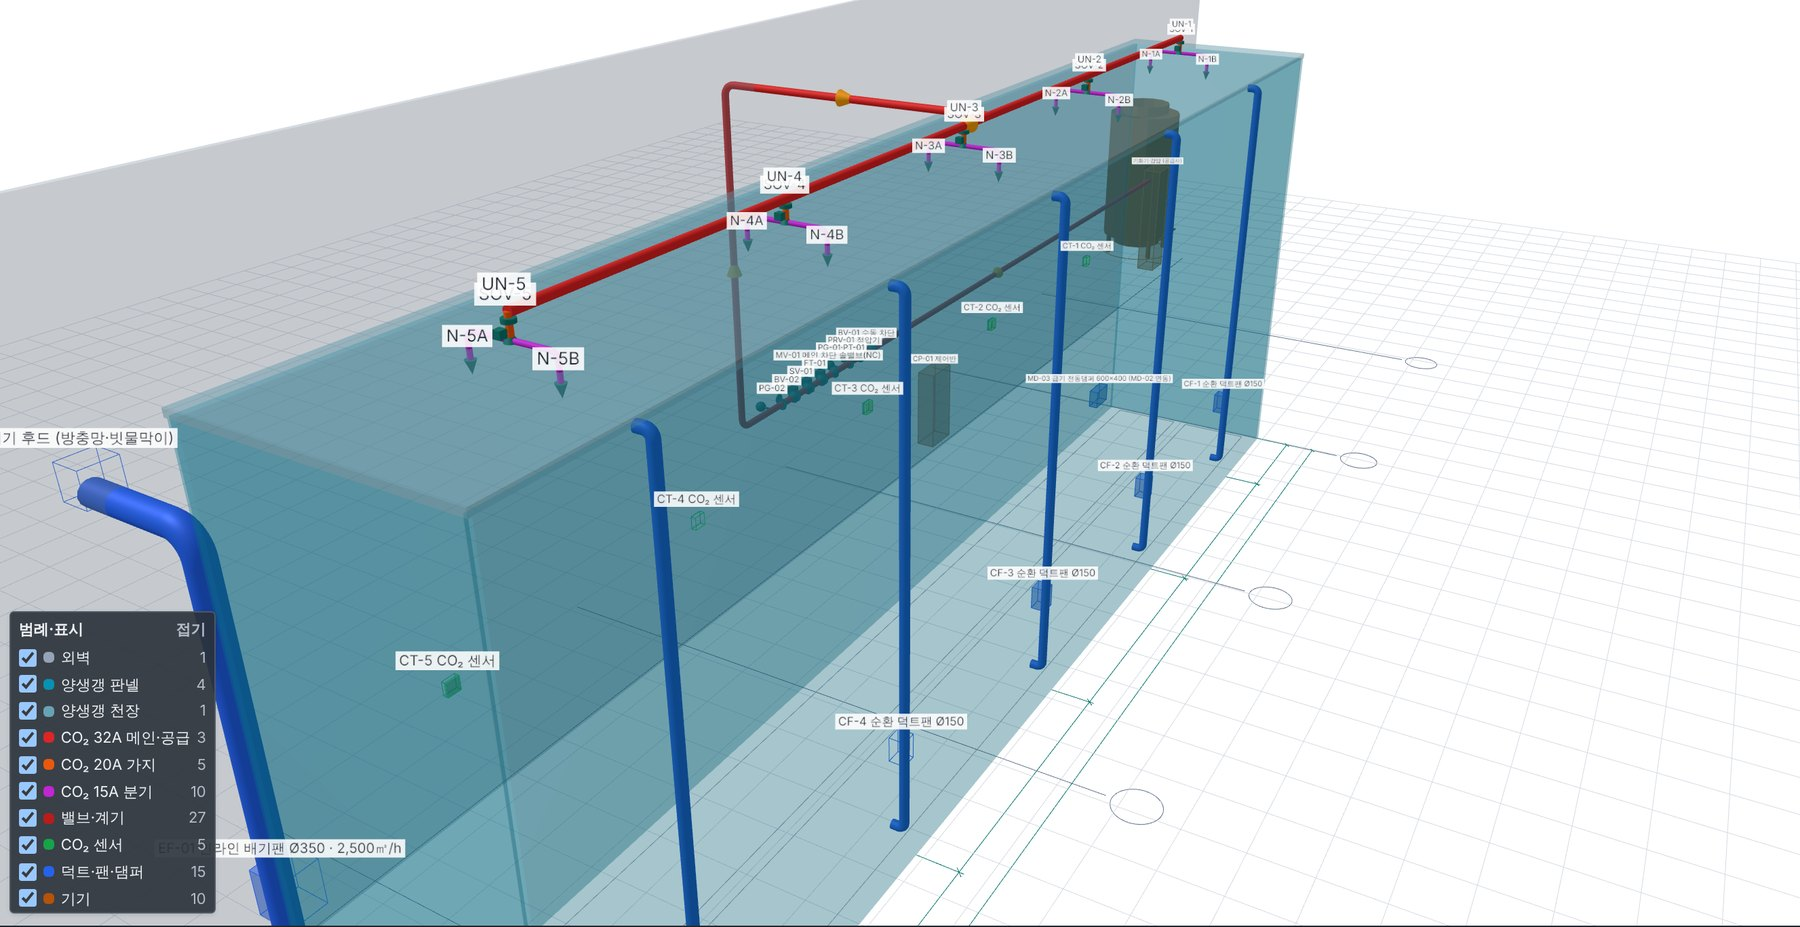
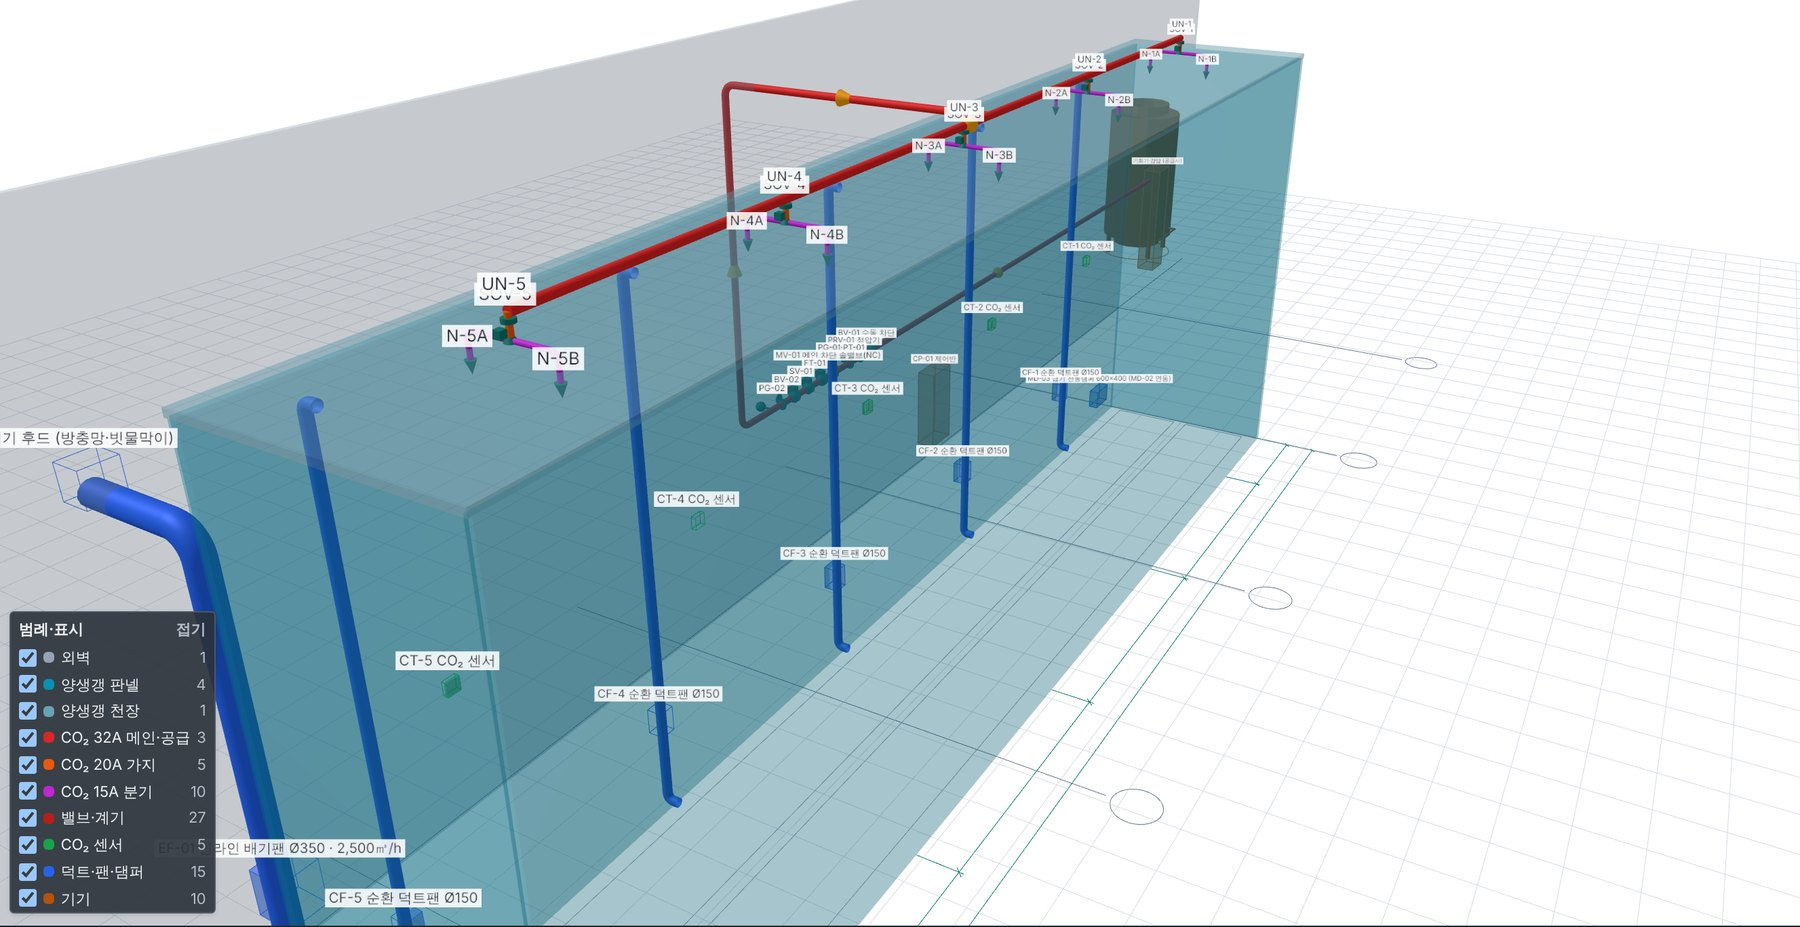
데코페이브 도면 그림·3D 화면: 순환 덕트팬을 오른쪽 벽으로 옮김 (#218)
Claude-Session: https://claude.ai/code/session_01MdRgMhkkCG9jx7tPyuMZFB

diff --git a/public/client-assets/decopave/3d.html b/public/client-assets/decopave/3d.html
@@ -83,7 +83,7 @@ button:focus-visible{outline:2px solid #2c5ce6;outline-offset:2px}
 <script>
 (function(){
 'use strict';
-var D={"pipes":[{"s":"32A","p":[[-10.35,3.0,0.6],[10.9,3.0,0.6],[10.9,9.46,0.6],[10.9,9.46,-4.435]]},{"s":"32A","p":[[2.342,9.46,-4.435],[7.026,9.46,-4.435],[10.9,9.46,-4.435],[11.71,9.46,-4.435],[16.394,9.46,-4.435],[21.078,9.46,-4.435]]},{"s":"20A","p":[[2.342,9.46,-4.435],[2.342,9.16,-4.435]]},{"s":"15A","p":[[2.342,9.16,-4.435],[2.342,9.16,-3.835],[2.342,8.76,-3.835]]},{"s":"15A","p":[[2.342,9.16,-4.435],[2.342,9.16,-5.035],[2.342,8.76,-5.035]]},{"s":"20A","p":[[7.026,9.46,-4.435],[7.026,9.16,-4.435]]},{"s":"15A","p":[[7.026,9.16,-4.435],[7.026,9.16,-3.835],[7.026,8.76,-3.835]]},{"s":"15A","p":[[7.026,9.16,-4.435],[7.026,9.16,-5.035],[7.026,8.76,-5.035]]},{"s":"20A","p":[[11.71,9.46,-4.435],[11.71,9.16,-4.435]]},{"s":"15A","p":[[11.71,9.16,-4.435],[11.71,9.16,-3.835],[11.71,8.76,-3.835]]},{"s":"15A","p":[[11.71,9.16,-4.435],[11.71,9.16,-5.035],[11.71,8.76,-5.035]]},{"s":"20A","p":[[16.394,9.46,-4.435],[16.394,9.16,-4.435]]},{"s":"15A","p":[[16.394,9.16,-4.435],[16.394,9.16,-3.835],[16.394,8.76,-3.835]]},{"s":"15A","p":[[16.394,9.16,-4.435],[16.394,9.16,-5.035],[16.394,8.76,-5.035]]},{"s":"20A","p":[[21.078,9.46,-4.435],[21.078,9.16,-4.435]]},{"s":"15A","p":[[21.078,9.16,-4.435],[21.078,9.16,-3.835],[21.078,8.76,-3.835]]},{"s":"15A","p":[[21.078,9.16,-4.435],[21.078,9.16,-5.035],[21.078,8.76,-5.035]]}],"fits":[{"k":"ball-valve","p":[6.399,3.0,0.6],"t":"BV-01 수동 차단밸브"},{"k":"solenoid","p":[7.899,3.0,0.6],"t":"MV-01 메인 차단 전자밸브"},{"k":"유량계","p":[8.4,3.0,0.6],"t":"FT-01 유량계"},{"k":"regulator","p":[6.9,3.0,0.6],"t":"PRV-01 정압기"},{"k":"safety-valve","p":[8.901,3.0,0.6],"t":"SV-01 안전밸브"},{"k":"gauge","p":[7.401,3.0,0.6],"t":"PG-01·PT-01 압력계"},{"k":"ball-valve","p":[9.399,3.0,0.6],"t":"BV-02 차단밸브"},{"k":"union","p":[2.342,9.37,-4.435],"t":""},{"k":"solenoid","p":[2.342,9.27,-4.435],"t":"SOV-1 구간 전자밸브"},{"k":"nozzle","p":[2.342,8.76,-3.835],"t":""},{"k":"nozzle","p":[2.342,8.76,-5.035],"t":""},{"k":"union","p":[7.026,9.37,-4.435],"t":""},{"k":"solenoid","p":[7.026,9.27,-4.435],"t":"SOV-2 구간 전자밸브"},{"k":"nozzle","p":[7.026,8.76,-3.835],"t":""},{"k":"nozzle","p":[7.026,8.76,-5.035],"t":""},{"k":"union","p":[11.71,9.37,-4.435],"t":""},{"k":"solenoid","p":[11.71,9.27,-4.435],"t":"SOV-3 구간 전자밸브"},{"k":"nozzle","p":[11.71,8.76,-3.835],"t":""},{"k":"nozzle","p":[11.71,8.76,-5.035],"t":""},{"k":"union","p":[16.394,9.37,-4.435],"t":""},{"k":"solenoid","p":[16.394,9.27,-4.435],"t":"SOV-4 구간 전자밸브"},{"k":"nozzle","p":[16.394,8.76,-3.835],"t":""},{"k":"nozzle","p":[16.394,8.76,-5.035],"t":""},{"k":"union","p":[21.078,9.37,-4.435],"t":""},{"k":"solenoid","p":[21.078,9.27,-4.435],"t":"SOV-5 구간 전자밸브"},{"k":"nozzle","p":[21.078,8.76,-3.835],"t":""},{"k":"nozzle","p":[21.078,8.76,-5.035],"t":""},{"k":"gauge","p":[9.9,3.0,0.6],"t":"PG-02 압력계"}],"boxes":[{"tag":"","layer":"ROOF","min":[-0.1,8.86,-6.335],"max":[23.52,8.96,-2.535]},{"tag":"CP-01 제어반","layer":"EQUIP","min":[3.9,0.0,-0.1],"max":[4.7,1.8,0.3]},{"tag":"MD-02 배기 댐퍼 Ø350 (밀폐형 전동)","layer":"DUCT","min":[22.575,0.175,-2.2],"max":[23.025,0.625,-1.9]},{"tag":"EF-01 인라인 배기팬 Ø350 · 2,500㎥/h","layer":"DUCT","min":[22.525,1.5,-1.575],"max":[23.075,2.2,-1.025]},{"tag":"배기 후드 (방충망·빗물막이)","layer":"DUCT","min":[22.55,6.7,0.45],"max":[23.05,7.2,0.9]},{"tag":"기화기·감압 (공급사)","layer":"EQUIP","min":[-11.15,0.0,0.15],"max":[-10.35,3.2,0.65]},{"tag":"CT-1 CO₂ 센서","layer":"SENSOR","min":[2.242,4.33,-2.715],"max":[2.442,4.53,-2.635]},{"tag":"CT-2 CO₂ 센서","layer":"SENSOR","min":[6.926,4.33,-2.715],"max":[7.126,4.53,-2.635]},{"tag":"CT-3 CO₂ 센서","layer":"SENSOR","min":[11.61,4.33,-2.715],"max":[11.81,4.53,-2.635]},{"tag":"CT-4 CO₂ 센서","layer":"SENSOR","min":[16.294,4.33,-2.715],"max":[16.494,4.53,-2.635]},{"tag":"CT-5 CO₂ 센서","layer":"SENSOR","min":[20.978,4.33,-2.715],"max":[21.178,4.53,-2.635]},{"tag":"MD-03 급기 전동댐퍼 600×400 (MD-02 연동)","layer":"DUCT","min":[0.6,0.3,-2.685],"max":[1.2,0.7,-2.485]},{"tag":"CF-1 순환 덕트팬 Ø150","layer":"DUCT","min":[2.217,1.5,-6.26],"max":[2.467,1.9,-6.01]},{"tag":"CF-2 순환 덕트팬 Ø150","layer":"DUCT","min":[6.901,1.5,-6.26],"max":[7.151,1.9,-6.01]},{"tag":"CF-3 순환 덕트팬 Ø150","layer":"DUCT","min":[11.585,1.5,-6.26],"max":[11.835,1.9,-6.01]},{"tag":"CF-4 순환 덕트팬 Ø150","layer":"DUCT","min":[16.269,1.5,-6.26],"max":[16.519,1.9,-6.01]},{"tag":"CF-5 순환 덕트팬 Ø150","layer":"DUCT","min":[20.953,1.5,-6.26],"max":[21.203,1.9,-6.01]}],"rounds":[{"layer":"DUCT","id":"m99","r":0.175,"p":[[22.8,0.4,-2.585],[22.8,0.4,-1.3],[22.8,7.0,-1.3],[22.8,7.0,0.45]]},{"layer":"EQUIP","id":"tk1","r":1.1,"p":[[-12.6,0.6,1.7],[-12.6,4.6,1.7]]},{"layer":"EQUIP","id":"tk2","r":0.75,"p":[[-12.6,4.6,1.7],[-12.6,4.9,1.7]]},{"layer":"EQUIP","id":"tk3","r":0.75,"p":[[-12.6,0.3,1.7],[-12.6,0.6,1.7]]},{"layer":"EQUIP","id":"tk4","r":0.075,"p":[[-13.3,0.0,2.4],[-13.3,0.9,2.4]]},{"layer":"EQUIP","id":"tk5","r":0.075,"p":[[-11.9,0.0,2.4],[-11.9,0.9,2.4]]},{"layer":"EQUIP","id":"tk6","r":0.075,"p":[[-13.3,0.0,1.0],[-13.3,0.9,1.0]]},{"layer":"EQUIP","id":"tk7","r":0.075,"p":[[-11.9,0.0,1.0],[-11.9,0.9,1.0]]},{"layer":"EQUIP","id":"tk10","r":0.03,"p":[[-12.6,0.9,1.7],[-12.6,0.9,0.4],[-11.15,0.9,0.4]]},{"layer":"DUCT","id":"cfd1","r":0.075,"p":[[2.342,0.4,-5.935],[2.342,0.4,-6.135],[2.342,8.6,-6.135],[2.342,8.6,-5.935]]},{"layer":"DUCT","id":"cfd2","r":0.075,"p":[[7.026,0.4,-5.935],[7.026,0.4,-6.135],[7.026,8.6,-6.135],[7.026,8.6,-5.935]]},{"layer":"DUCT","id":"cfd3","r":0.075,"p":[[11.71,0.4,-5.935],[11.71,0.4,-6.135],[11.71,8.6,-6.135],[11.71,8.6,-5.935]]},{"layer":"DUCT","id":"cfd4","r":0.075,"p":[[16.394,0.4,-5.935],[16.394,0.4,-6.135],[16.394,8.6,-6.135],[16.394,8.6,-5.935]]},{"layer":"DUCT","id":"cfd5","r":0.075,"p":[[21.078,0.4,-5.935],[21.078,0.4,-6.135],[21.078,8.6,-6.135],[21.078,8.6,-5.935]]}],"walls":[{"k":"out","a":[-11.8,0.0,0.0],"b":[26.4,0.0,0.0],"h":10.5},{"k":"ch","a":[-0.05,0.0,-2.585],"b":[23.47,0.0,-2.585],"h":8.86},{"k":"ch","a":[23.47,0.0,-2.585],"b":[23.47,0.0,-6.285],"h":8.86},{"k":"ch","a":[23.47,0.0,-6.285],"b":[-0.05,0.0,-6.285],"h":8.86},{"k":"ch","a":[-0.05,0.0,-6.285],"b":[-0.05,0.0,-2.585],"h":8.86}],"racks":[[0.094,-4.29,23.321,-2.89],[0.094,-5.98,23.321,-4.58]]};
+var D={"pipes":[{"s":"32A","p":[[-10.35,3.0,0.6],[10.9,3.0,0.6],[10.9,9.46,0.6],[10.9,9.46,-4.435]]},{"s":"32A","p":[[2.342,9.46,-4.435],[7.026,9.46,-4.435],[10.9,9.46,-4.435],[11.71,9.46,-4.435],[16.394,9.46,-4.435],[21.078,9.46,-4.435]]},{"s":"20A","p":[[2.342,9.46,-4.435],[2.342,9.16,-4.435]]},{"s":"15A","p":[[2.342,9.16,-4.435],[2.342,9.16,-3.835],[2.342,8.76,-3.835]]},{"s":"15A","p":[[2.342,9.16,-4.435],[2.342,9.16,-5.035],[2.342,8.76,-5.035]]},{"s":"20A","p":[[7.026,9.46,-4.435],[7.026,9.16,-4.435]]},{"s":"15A","p":[[7.026,9.16,-4.435],[7.026,9.16,-3.835],[7.026,8.76,-3.835]]},{"s":"15A","p":[[7.026,9.16,-4.435],[7.026,9.16,-5.035],[7.026,8.76,-5.035]]},{"s":"20A","p":[[11.71,9.46,-4.435],[11.71,9.16,-4.435]]},{"s":"15A","p":[[11.71,9.16,-4.435],[11.71,9.16,-3.835],[11.71,8.76,-3.835]]},{"s":"15A","p":[[11.71,9.16,-4.435],[11.71,9.16,-5.035],[11.71,8.76,-5.035]]},{"s":"20A","p":[[16.394,9.46,-4.435],[16.394,9.16,-4.435]]},{"s":"15A","p":[[16.394,9.16,-4.435],[16.394,9.16,-3.835],[16.394,8.76,-3.835]]},{"s":"15A","p":[[16.394,9.16,-4.435],[16.394,9.16,-5.035],[16.394,8.76,-5.035]]},{"s":"20A","p":[[21.078,9.46,-4.435],[21.078,9.16,-4.435]]},{"s":"15A","p":[[21.078,9.16,-4.435],[21.078,9.16,-3.835],[21.078,8.76,-3.835]]},{"s":"15A","p":[[21.078,9.16,-4.435],[21.078,9.16,-5.035],[21.078,8.76,-5.035]]}],"fits":[{"k":"ball-valve","p":[6.399,3.0,0.6],"t":"BV-01 수동 차단밸브"},{"k":"solenoid","p":[7.899,3.0,0.6],"t":"MV-01 메인 차단 전자밸브"},{"k":"유량계","p":[8.4,3.0,0.6],"t":"FT-01 유량계"},{"k":"regulator","p":[6.9,3.0,0.6],"t":"PRV-01 정압기"},{"k":"safety-valve","p":[8.901,3.0,0.6],"t":"SV-01 안전밸브"},{"k":"gauge","p":[7.401,3.0,0.6],"t":"PG-01·PT-01 압력계"},{"k":"ball-valve","p":[9.399,3.0,0.6],"t":"BV-02 차단밸브"},{"k":"union","p":[2.342,9.37,-4.435],"t":""},{"k":"solenoid","p":[2.342,9.27,-4.435],"t":"SOV-1 구간 전자밸브"},{"k":"nozzle","p":[2.342,8.76,-3.835],"t":""},{"k":"nozzle","p":[2.342,8.76,-5.035],"t":""},{"k":"union","p":[7.026,9.37,-4.435],"t":""},{"k":"solenoid","p":[7.026,9.27,-4.435],"t":"SOV-2 구간 전자밸브"},{"k":"nozzle","p":[7.026,8.76,-3.835],"t":""},{"k":"nozzle","p":[7.026,8.76,-5.035],"t":""},{"k":"union","p":[11.71,9.37,-4.435],"t":""},{"k":"solenoid","p":[11.71,9.27,-4.435],"t":"SOV-3 구간 전자밸브"},{"k":"nozzle","p":[11.71,8.76,-3.835],"t":""},{"k":"nozzle","p":[11.71,8.76,-5.035],"t":""},{"k":"union","p":[16.394,9.37,-4.435],"t":""},{"k":"solenoid","p":[16.394,9.27,-4.435],"t":"SOV-4 구간 전자밸브"},{"k":"nozzle","p":[16.394,8.76,-3.835],"t":""},{"k":"nozzle","p":[16.394,8.76,-5.035],"t":""},{"k":"union","p":[21.078,9.37,-4.435],"t":""},{"k":"solenoid","p":[21.078,9.27,-4.435],"t":"SOV-5 구간 전자밸브"},{"k":"nozzle","p":[21.078,8.76,-3.835],"t":""},{"k":"nozzle","p":[21.078,8.76,-5.035],"t":""},{"k":"gauge","p":[9.9,3.0,0.6],"t":"PG-02 압력계"}],"boxes":[{"tag":"","layer":"ROOF","min":[-0.1,8.86,-6.335],"max":[23.52,8.96,-2.535]},{"tag":"CP-01 제어반","layer":"EQUIP","min":[3.9,0.0,-0.1],"max":[4.7,1.8,0.3]},{"tag":"MD-02 배기 댐퍼 Ø350 (밀폐형 전동)","layer":"DUCT","min":[22.575,0.175,-2.2],"max":[23.025,0.625,-1.9]},{"tag":"EF-01 인라인 배기팬 Ø350 · 2,500㎥/h","layer":"DUCT","min":[22.525,1.5,-1.575],"max":[23.075,2.2,-1.025]},{"tag":"배기 후드 (방충망·빗물막이)","layer":"DUCT","min":[22.55,6.7,0.45],"max":[23.05,7.2,0.9]},{"tag":"기화기·감압 (공급사)","layer":"EQUIP","min":[-11.15,0.0,0.15],"max":[-10.35,3.2,0.65]},{"tag":"CT-1 CO₂ 센서","layer":"SENSOR","min":[2.242,4.33,-2.715],"max":[2.442,4.53,-2.635]},{"tag":"CT-2 CO₂ 센서","layer":"SENSOR","min":[6.926,4.33,-2.715],"max":[7.126,4.53,-2.635]},{"tag":"CT-3 CO₂ 센서","layer":"SENSOR","min":[11.61,4.33,-2.715],"max":[11.81,4.53,-2.635]},{"tag":"CT-4 CO₂ 센서","layer":"SENSOR","min":[16.294,4.33,-2.715],"max":[16.494,4.53,-2.635]},{"tag":"CT-5 CO₂ 센서","layer":"SENSOR","min":[20.978,4.33,-2.715],"max":[21.178,4.53,-2.635]},{"tag":"MD-03 급기 전동댐퍼 600×400 (MD-02 연동)","layer":"DUCT","min":[0.6,0.3,-2.685],"max":[1.2,0.7,-2.485]},{"tag":"CF-1 순환 덕트팬 Ø150","layer":"DUCT","min":[3.417,1.5,-2.91],"max":[3.667,1.9,-2.66]},{"tag":"CF-2 순환 덕트팬 Ø150","layer":"DUCT","min":[8.101,1.5,-2.91],"max":[8.351,1.9,-2.66]},{"tag":"CF-3 순환 덕트팬 Ø150","layer":"DUCT","min":[12.785,1.5,-2.91],"max":[13.035,1.9,-2.66]},{"tag":"CF-4 순환 덕트팬 Ø150","layer":"DUCT","min":[17.469,1.5,-2.91],"max":[17.719,1.9,-2.66]},{"tag":"CF-5 순환 덕트팬 Ø150","layer":"DUCT","min":[22.153,1.5,-2.91],"max":[22.403,1.9,-2.66]}],"rounds":[{"layer":"DUCT","id":"m99","r":0.175,"p":[[22.8,0.4,-2.585],[22.8,0.4,-1.3],[22.8,7.0,-1.3],[22.8,7.0,0.45]]},{"layer":"EQUIP","id":"tk1","r":1.1,"p":[[-12.6,0.6,1.7],[-12.6,4.6,1.7]]},{"layer":"EQUIP","id":"tk2","r":0.75,"p":[[-12.6,4.6,1.7],[-12.6,4.9,1.7]]},{"layer":"EQUIP","id":"tk3","r":0.75,"p":[[-12.6,0.3,1.7],[-12.6,0.6,1.7]]},{"layer":"EQUIP","id":"tk4","r":0.075,"p":[[-13.3,0.0,2.4],[-13.3,0.9,2.4]]},{"layer":"EQUIP","id":"tk5","r":0.075,"p":[[-11.9,0.0,2.4],[-11.9,0.9,2.4]]},{"layer":"EQUIP","id":"tk6","r":0.075,"p":[[-13.3,0.0,1.0],[-13.3,0.9,1.0]]},{"layer":"EQUIP","id":"tk7","r":0.075,"p":[[-11.9,0.0,1.0],[-11.9,0.9,1.0]]},{"layer":"EQUIP","id":"tk10","r":0.03,"p":[[-12.6,0.9,1.7],[-12.6,0.9,0.4],[-11.15,0.9,0.4]]},{"layer":"DUCT","id":"cfd1","r":0.075,"p":[[3.542,0.4,-2.985],[3.542,0.4,-2.785],[3.542,8.6,-2.785],[3.542,8.6,-2.985]]},{"layer":"DUCT","id":"cfd2","r":0.075,"p":[[8.226,0.4,-2.985],[8.226,0.4,-2.785],[8.226,8.6,-2.785],[8.226,8.6,-2.985]]},{"layer":"DUCT","id":"cfd3","r":0.075,"p":[[12.91,0.4,-2.985],[12.91,0.4,-2.785],[12.91,8.6,-2.785],[12.91,8.6,-2.985]]},{"layer":"DUCT","id":"cfd4","r":0.075,"p":[[17.594,0.4,-2.985],[17.594,0.4,-2.785],[17.594,8.6,-2.785],[17.594,8.6,-2.985]]},{"layer":"DUCT","id":"cfd5","r":0.075,"p":[[22.278,0.4,-2.985],[22.278,0.4,-2.785],[22.278,8.6,-2.785],[22.278,8.6,-2.985]]}],"walls":[{"k":"out","a":[-11.8,0.0,0.0],"b":[26.4,0.0,0.0],"h":10.5},{"k":"ch","a":[-0.05,0.0,-2.585],"b":[23.47,0.0,-2.585],"h":8.86},{"k":"ch","a":[23.47,0.0,-2.585],"b":[23.47,0.0,-6.285],"h":8.86},{"k":"ch","a":[23.47,0.0,-6.285],"b":[-0.05,0.0,-6.285],"h":8.86},{"k":"ch","a":[-0.05,0.0,-6.285],"b":[-0.05,0.0,-2.585],"h":8.86}],"racks":[[0.094,-4.29,23.321,-2.89],[0.094,-5.98,23.321,-4.58]]};
 var canvas=document.getElementById('c'), hint=document.getElementById('hint'), labelBox=document.getElementById('labels');
 if(!window.THREE){ hint.textContent='3D 화면을 불러오지 못함. 새로 고침해 주십시오.'; hint.style.display='block'; return; }
 var renderer;
